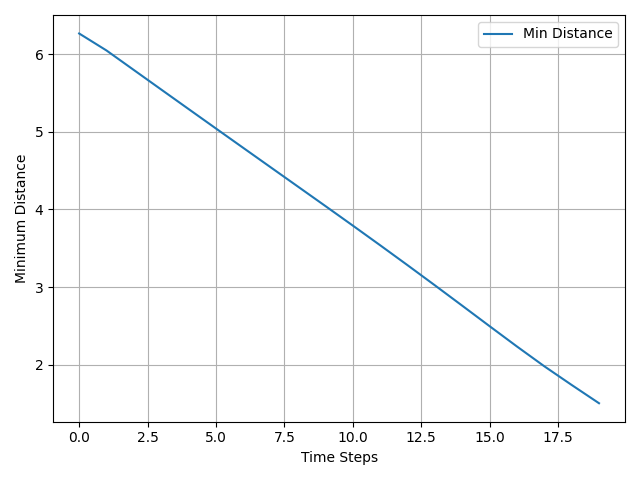
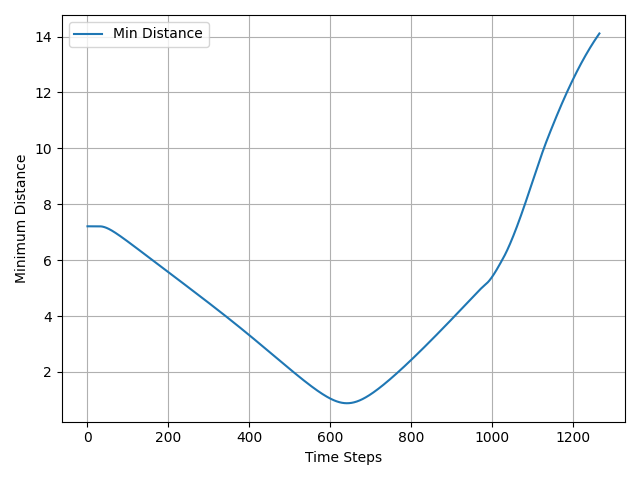
Position adjusted and videos made for colloquium

diff --git a/dmpc_planner_centralised/scripts/path_generator.py b/dmpc_planner_centralised/scripts/path_generator.py
@@ -29,7 +29,7 @@ def raw_track(choice, start_x, start_y, positive_track):
         checkpoints_y_turn = -2 + 3 * np.sin(theta)
 
         # Straight segment from (-2, 1) to (-4, 1)
-        checkpoints_x_straight2 = np.linspace(-2, -4, 4)
+        checkpoints_x_straight2 = np.linspace(-2, -6, 4)
         checkpoints_y_straight2 = np.ones(4) 
         
         
@@ -37,7 +37,7 @@ def raw_track(choice, start_x, start_y, positive_track):
         checkpoints_x_2 = np.concatenate((checkpoints_x_straight1[:-1], checkpoints_x_turn[:-1], checkpoints_x_straight2))
         checkpoints_y_2 = np.concatenate((checkpoints_y_straight1[:-1], checkpoints_y_turn[:-1], checkpoints_y_straight2))
         
-        checkpoints_x_1 = np.linspace(start_x[0], 5, n_checkpoints)
+        checkpoints_x_1 = np.linspace(start_x[0], 7, n_checkpoints)
         checkpoints_y_1 = np.ones(n_checkpoints) * start_y[0]
 
         if positive_track:

diff --git a/dmpc_planner_decentralised/scripts/path_generator.py b/dmpc_planner_decentralised/scripts/path_generator.py
@@ -29,7 +29,7 @@ def raw_track(choice, start_x, start_y, positive_track):
         checkpoints_y_turn = -2 + 3 * np.sin(theta)
 
         # Straight segment from (-2, 1) to (-4, 1)
-        checkpoints_x_straight2 = np.linspace(-2, -4, 4)
+        checkpoints_x_straight2 = np.linspace(-2, -6, 4)
         checkpoints_y_straight2 = np.ones(4) 
         
         
@@ -37,7 +37,7 @@ def raw_track(choice, start_x, start_y, positive_track):
         checkpoints_x_2 = np.concatenate((checkpoints_x_straight1[:-1], checkpoints_x_turn[:-1], checkpoints_x_straight2))
         checkpoints_y_2 = np.concatenate((checkpoints_y_straight1[:-1], checkpoints_y_turn[:-1], checkpoints_y_straight2))
         
-        checkpoints_x_1 = np.linspace(start_x[0], 5, n_checkpoints)
+        checkpoints_x_1 = np.linspace(start_x[0], 8, n_checkpoints)
         checkpoints_y_1 = np.ones(n_checkpoints) * start_y[0]
 
         if positive_track:

diff --git a/solver_generator/generate_solver.py b/solver_generator/generate_solver.py
@@ -179,7 +179,7 @@ def generate_solver(modules, model, settings=None):
     # ocp.solver_options.qp_solver = "FULL_CONDENSING_QPOASES"
     # ocp.solver_options.qp_solver = "FULL_CONDENSING_HPIPM" 
     ocp.solver_options.qp_solver = "PARTIAL_CONDENSING_HPIPM"
-    ocp.solver_options.qp_solver_iter_max = 500 # default = 50
+    ocp.solver_options.qp_solver_iter_max = 100 # default = 50
     ocp.solver_options.qp_solver_warm_start = 1  # cold start / 1 = warm, 2 = warm primal and dual
 
     # code generation options

diff --git a/dmpc_planner_centralised/scripts/jetracersimulator_mpc.py b/dmpc_planner_centralised/scripts/jetracersimulator_mpc.py
@@ -54,7 +54,6 @@ class ROSMPCPlanner:
         self._dart_simulator = self._settings["dart_simulator"]
 
         self._planner = MPCPlanner(self._settings)
-        # self._planner.set_projection(lambda trajectory: self.project_to_safety(trajectory))
 
         self._spline_fitter_1 = SplineFitter(self._settings)
         self._spline_fitter_2 = SplineFitter(self._settings)
